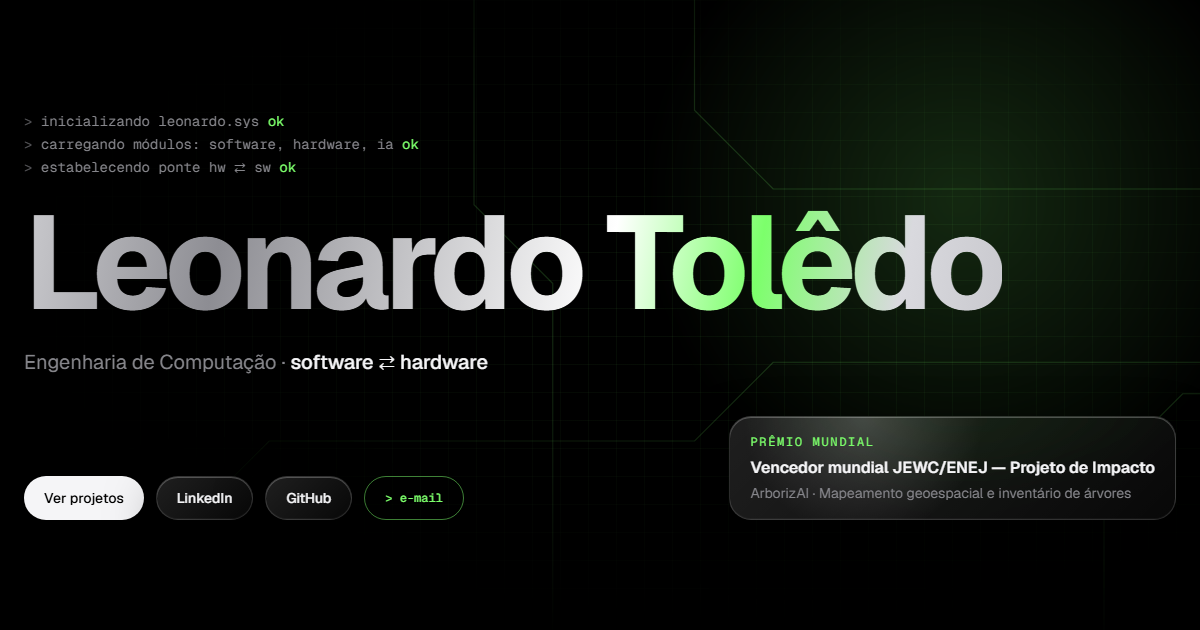
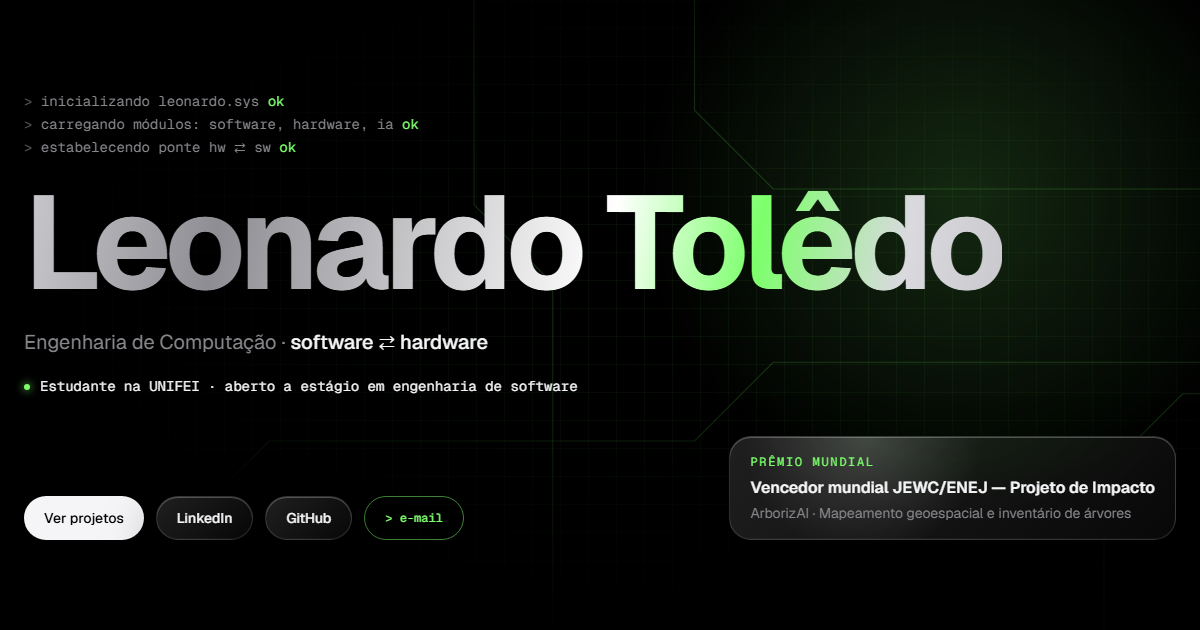
chore: auditoria de qualidade v1 (v0.4.0)
- varredura do build publicado: sem telefone, TODO de conteúdo, source maps, .env ou serve.json
- Lighthouse mobile PT/EN: Perf 96, A11y 100, Best Practices 100, SEO 100
- troca de idioma pela nav não apaga mais o marcador de JS (botão de copiar e-mail some)
- status "estudante na UNIFEI · aberto a estágio" na primeira dobra e na og.png
- tablet: sem rolagem lateral e projetos em 2 colunas; teste de larguras 320–1280
- WCAG 2.5.3 e 3.1.2 nos rótulos do logo e do seletor; theme-color, touch-action, .nojekyll
- título com UNIFEI; ESLint ignora as saídas locais de revisão

diff --git a/tests/e2e/out-scan.spec.ts b/tests/e2e/out-scan.spec.ts
@@ -1,0 +1,50 @@
+import { readdirSync, readFileSync } from "node:fs";
+import { basename, extname, join, relative } from "node:path";
+import { expect, test } from "@playwright/test";
+import { extractText, getDocumentProxy } from "unpdf";
+import { findPhones } from "../../src/lib/privacy";
+
+// Varre o que vai para o GitHub Pages: out/ é gerado pelo webServer do Playwright antes dos testes.
+const OUT = "out";
+const TEXT = new Set([".html", ".js", ".txt", ".xml", ".json", ".css", ".svg", ".webmanifest"]);
+
+function walk(dir: string): string[] {
+  return readdirSync(dir, { withFileTypes: true }).flatMap((e) => (e.isDirectory() ? walk(join(dir, e.name)) : [join(dir, e.name)]));
+}
+
+async function textOf(file: string): Promise<string | undefined> {
+  const ext = extname(file).toLowerCase();
+  if (TEXT.has(ext)) return readFileSync(file, "utf8");
+  if (ext === ".pdf") {
+    const doc = await getDocumentProxy(new Uint8Array(readFileSync(file)));
+    return (await extractText(doc, { mergePages: true })).text;
+  }
+  return undefined;
+}
+
+// Uma varredura basta: o resultado não depende do tamanho da tela.
+test.beforeEach(({ isMobile }) => test.skip(isMobile, "varredura do build roda uma vez"));
+
+test("build publicado: sem telefone e sem marcador de conteúdo pendente", async () => {
+  const files = walk(OUT);
+  const problems: string[] = [];
+  let scanned = 0;
+  for (const file of files) {
+    const text = await textOf(file);
+    if (text === undefined) continue;
+    scanned++;
+    const rel = relative(OUT, file);
+    for (const phone of findPhones(text)) problems.push(`${rel}: telefone "${phone}"`);
+    if (text.includes("TODO(conteúdo)")) problems.push(`${rel}: TODO(conteúdo)`);
+  }
+  // Garante que a varredura não passa "no vazio".
+  expect(scanned).toBeGreaterThan(10);
+  expect(problems).toEqual([]);
+});
+
+test("build publicado: sem source maps, .env nem configuração do servidor", () => {
+  const forbidden = walk(OUT)
+    .map((f) => relative(OUT, f))
+    .filter((f) => f.endsWith(".map") || basename(f).startsWith(".env") || basename(f) === "serve.json");
+  expect(forbidden).toEqual([]);
+});

diff --git a/src/app/[locale]/layout.tsx b/src/app/[locale]/layout.tsx
@@ -1,16 +1,19 @@
-import type { Metadata } from "next";
+import type { Metadata, Viewport } from "next";
 import { Geist, Geist_Mono } from "next/font/google";
 import { notFound } from "next/navigation";
-import { htmlLang, isLocale, locales } from "@/i18n/config";
+import { JsFlag } from "@/components/layout/JsFlag";
 import { profile } from "@/content/profile";
+import { htmlLang, isLocale, locales } from "@/i18n/config";
 import { getDictionary } from "@/i18n/get-dictionary";
-import { SITE_URL } from "@/lib/site";
+import { SITE_URL, THEME_COLOR } from "@/lib/site";
 import "@/styles/globals.css";
 
 const geistSans = Geist({ variable: "--font-geist-sans", subsets: ["latin"] });
 const geistMono = Geist_Mono({ variable: "--font-geist-mono", subsets: ["latin"] });
 
 export const dynamicParams = false;
+
+export const viewport: Viewport = { themeColor: THEME_COLOR, colorScheme: "dark" };
 
 export function generateStaticParams() {
   return locales.map((locale) => ({ locale }));
@@ -53,7 +56,10 @@ export default async function LocaleLayout({ children, params }: LayoutProps<"/[
         {/* Marca que há JavaScript antes de pintar: efeitos que escondem texto só agem com JS (sem JS, tudo visível). */}
         <script dangerouslySetInnerHTML={{ __html: "document.documentElement.dataset.js=''" }} />
       </head>
-      <body>{children}</body>
+      <body>
+        <JsFlag locale={locale} />
+        {children}
+      </body>
     </html>
   );
 }

diff --git a/tests/e2e/seo.spec.ts b/tests/e2e/seo.spec.ts
@@ -1,10 +1,9 @@
 import { expect, test } from "@playwright/test";
-
-const SITE = "https://leonardo-toledo-alves-costa.github.io";
+import { SITE_URL as SITE } from "../../src/lib/site";
 
 for (const [locale, title, desc] of [
-  ["pt", /Leonardo Tolêdo — Engenharia de Computação/, /Portfólio de Leonardo Tolêdo/],
-  ["en", /Leonardo Tolêdo — Computer Engineering/, /Portfolio of Leonardo Tolêdo/],
+  ["pt", /Leonardo Tolêdo — Engenharia de Computação \(UNIFEI\)/, /Portfólio de Leonardo Tolêdo/],
+  ["en", /Leonardo Tolêdo — Computer Engineering \(UNIFEI\)/, /Portfolio of Leonardo Tolêdo/],
 ] as const) {
   test(`title e description em /${locale}/`, async ({ page }) => {
     await page.goto(`/${locale}/`);
@@ -92,4 +91,12 @@ test("página raiz (redirecionamento) não é indexada", async ({ request }) => 
   // Lê o HTML servido (o navegador redirecionaria antes de dar para inspecionar o DOM).
   const html = await (await request.get("/")).text();
   expect(html).toMatch(/<meta name="robots" content="noindex/);
+});
+
+test("theme-color preto e color-scheme escuro (barra do navegador no celular)", async ({ page }) => {
+  for (const path of ["/pt/", "/nao-existe/"]) {
+    await page.goto(path);
+    await expect(page.locator('meta[name="theme-color"]')).toHaveAttribute("content", "#000000");
+    await expect(page.locator('meta[name="color-scheme"]')).toHaveAttribute("content", "dark");
+  }
 });

diff --git a/src/components/sections/Projects.tsx b/src/components/sections/Projects.tsx
@@ -5,20 +5,21 @@ import { ProjectCard } from "./projects/ProjectCard";
 import { Section } from "./Section";
 import type { SectionProps } from "./types";
 
-const COLS = 3;
+// 2 colunas no tablet e 3 no desktop: as células fecham em múltiplos de 6 para as duas grades ficarem completas.
+const GRID_CELLS = 6;
 
 /** Projetos como módulos da placa: o premiado em destaque (2 colunas) e "slots livres" fechando a grade. */
 export function Projects({ locale, dict }: SectionProps) {
   const t = dict.projects;
   const featuredId = projects.find((p) => p.award)?.id;
-  const items = projectSlots(projects, slotsToFillGrid(projects.length, COLS, featuredId ? 1 : 0));
+  const items = projectSlots(projects, slotsToFillGrid(projects.length, GRID_CELLS, featuredId ? 1 : 0));
 
   return (
     <Section id="projects" index="05" label={dict.nav.projects} title={dict.sections.projects}>
       <p className="mt-6 max-w-[60ch] text-lg text-text-2">{t.intro}</p>
       {/* Um Reveal para a grade inteira: cards não são sequência. */}
       <Reveal className="mt-12">
-        <ul className="grid gap-4 md:grid-flow-dense md:grid-cols-3">
+        <ul className="grid gap-4 md:grid-flow-dense md:grid-cols-2 lg:grid-cols-3">
           {items.map((project, i) =>
             project ? (
               <li key={project.id} className={project.id === featuredId ? "md:col-span-2" : undefined}>

diff --git a/tests/e2e/smoke.spec.ts b/tests/e2e/smoke.spec.ts
@@ -194,3 +194,23 @@ test("títulos das seções não repetem o rótulo de serigrafia", async ({ page
     expect(title, id).not.toBe(label);
   }
 });
+
+test("nome acessível do logo e da troca de idioma contém o texto visível (WCAG 2.5.3)", async ({ page }) => {
+  await page.goto("/pt/");
+  const nav = page.getByTestId("site-nav");
+  for (const el of [nav.locator('a[href="#hero"]'), page.getByTestId("locale-switch").first()]) {
+    const { visible, label } = await el.evaluate((e) => ({ visible: (e.textContent ?? "").replace(/[^\p{L}\p{N}]/gu, ""), label: e.getAttribute("aria-label") ?? "" }));
+    expect(visible.length).toBeGreaterThan(0);
+    expect(label.replace(/[^\p{L}\p{N}]/gu, "")).toContain(visible);
+  }
+});
+
+test("sem rolagem lateral em larguras intermediárias (tablet e notebook pequeno)", async ({ page, isMobile }) => {
+  test.skip(isMobile, "percorre as larguras num só projeto");
+  for (const width of [320, 640, 768, 1024, 1280]) {
+    await page.setViewportSize({ width, height: 900 });
+    await page.goto("/pt/");
+    const overflow = await page.evaluate(() => document.documentElement.scrollWidth - document.documentElement.clientWidth);
+    expect(overflow, `largura ${width}`).toBeLessThanOrEqual(0);
+  }
+});

diff --git a/tests/e2e/locale.spec.ts b/tests/e2e/locale.spec.ts
@@ -43,3 +43,20 @@ test("rotas com barra final respondem 200 sem redirecionar", async ({ request })
     expect(res.status(), path).toBe(200);
   }
 });
+
+test("trocar idioma pela nav mantém o marcador de JS (botão de copiar continua visível)", async ({ page }) => {
+  await page.goto("/pt/#contact");
+  await page.getByTestId("locale-switch").first().click();
+  await expect(page).toHaveURL(/\/en\//);
+  await expect(page.getByTestId("copy-email")).toBeVisible();
+  await page.goBack();
+  await expect(page).toHaveURL(/\/pt\//);
+  await expect(page.getByTestId("copy-email")).toBeVisible();
+});
+
+test("rótulo da troca de idioma está no idioma do link (lang) — WCAG 3.1.2", async ({ page }) => {
+  await page.goto("/pt/");
+  await expect(page.getByTestId("locale-switch").first()).toHaveAttribute("aria-label", "EN, View in English");
+  await page.goto("/en/");
+  await expect(page.getByTestId("locale-switch").first()).toHaveAttribute("aria-label", "PT, Ver em português");
+});

diff --git a/src/components/sections/Hero.tsx b/src/components/sections/Hero.tsx
@@ -89,6 +89,13 @@ export function Hero({ locale, dict }: SectionProps) {
           <span className="whitespace-nowrap font-medium text-text">{headline.focus}</span>
         </p>
 
+        {/* Nível e o que busca, já na primeira dobra. O LED aceso = disponível.
+            Sem borda de pílula: não é botão (a pílula com borda verde é o "> e-mail"). */}
+        <p data-status="" className="mt-5 flex items-baseline gap-2.5 font-mono text-xs text-text sm:text-sm">
+          <span aria-hidden className="size-1.5 shrink-0 translate-y-[-1px] rounded-full bg-signal shadow-[0_0_8px_var(--color-signal)]" />
+          {profile.status[locale]}
+        </p>
+
         <div className="mt-10 flex flex-col gap-8 lg:flex-row lg:items-end lg:justify-between">
           <div className="flex flex-wrap items-center gap-3">{heroCtas({ cvHref: profile.cv?.[locale] }).map(cta)}</div>
 

diff --git a/src/i18n/dictionaries/pt.ts b/src/i18n/dictionaries/pt.ts
@@ -1,7 +1,7 @@
 /** Textos de interface em português — o formato deste objeto é o contrato que o inglês precisa seguir. */
 export const pt = {
   meta: {
-    title: "Leonardo Tolêdo — Engenharia de Computação · software ⇄ hardware",
+    title: "Leonardo Tolêdo — Engenharia de Computação (UNIFEI) · software e hardware",
     description:
       "Portfólio de Leonardo Tolêdo, estudante de Engenharia de Computação na UNIFEI: projetos, tecnologias e trajetória entre software e hardware.",
   },
@@ -38,7 +38,8 @@ export const pt = {
   },
   common: {
     skipToContent: "Pular para o conteúdo",
-    switchLanguage: "Ver em inglês",
+    // No idioma de destino (o link tem lang="en"): quem não lê português reconhece.
+    switchLanguage: "View in English",
   },
   hero: {
     boot1: "inicializando leonardo.sys",

diff --git a/src/components/sections/Section.tsx b/src/components/sections/Section.tsx
@@ -17,11 +17,13 @@ type SectionProps = {
 
 /** Casca padrão das seções: âncora, rótulo de serigrafia e título h2 ligado por aria-labelledby. */
 export function Section({ id, index, label, title, tone = "base", className, children }: SectionProps) {
+  // overflow-x-clip: brilhos decorativos que passam da borda não criam rolagem lateral (sem cortar na vertical).
   return (
     <section
       id={id}
       aria-labelledby={`${id}-title`}
-      className={cn("scroll-mt-24 border-t border-line py-16 sm:py-24 lg:py-32", tone === "raised" && "bg-surface-2", className)}
+      className={cn(
+        "scroll-mt-24 overflow-x-clip border-t border-line py-16 sm:py-24 lg:py-32", tone === "raised" && "bg-surface-2", className)}
     >
       <Container>
         <SectionLabel index={index}>{label}</SectionLabel>

diff --git a/src/app/global-not-found.tsx b/src/app/global-not-found.tsx
@@ -1,12 +1,15 @@
-import type { Metadata } from "next";
+import type { Metadata, Viewport } from "next";
 import { Geist, Geist_Mono } from "next/font/google";
+import { Button } from "@/components/ui/Button";
 import { en } from "@/i18n/dictionaries/en";
 import { pt } from "@/i18n/dictionaries/pt";
-import { Button } from "@/components/ui/Button";
+import { THEME_COLOR } from "@/lib/site";
 import "@/styles/globals.css";
 
 const geistSans = Geist({ variable: "--font-geist-sans", subsets: ["latin"] });
 const geistMono = Geist_Mono({ variable: "--font-geist-mono", subsets: ["latin"] });
+
+export const viewport: Viewport = { themeColor: THEME_COLOR, colorScheme: "dark" };
 
 // O Next já injeta <meta name="robots" content="noindex"> na 404.
 export const metadata: Metadata = {

diff --git a/tests/e2e/hero.spec.ts b/tests/e2e/hero.spec.ts
@@ -63,3 +63,13 @@ for (const [locale, boot, headline, cta] of [
     await expect(page.locator('#hero a[href="#projects"]')).toHaveText(cta);
   });
 }
+
+test("hero diz o status na primeira dobra: UNIFEI e estágio (PT e EN)", async ({ page }) => {
+  for (const [locale, re] of [["pt", /UNIFEI.*estágio/], ["en", /UNIFEI.*internship/]] as const) {
+    await page.goto(`/${locale}/`);
+    const status = page.locator("#hero [data-status]");
+    await expect(status).toHaveText(re);
+    const box = (await status.boundingBox())!;
+    expect(box.y + box.height).toBeLessThanOrEqual(page.viewportSize()!.height);
+  }
+});

diff --git a/tests/e2e/projects.spec.ts b/tests/e2e/projects.spec.ts
@@ -97,3 +97,11 @@ test("slot livre com borda tracejada legível", async ({ page }) => {
   // Mais visível que a linha padrão (branco 8%).
   expect(color).not.toMatch(/0\.08\)/);
 });
+
+test("tablet (768px): cards de projeto com largura confortável (2 colunas)", async ({ page, isMobile }) => {
+  test.skip(isMobile, "largura definida no teste");
+  await page.setViewportSize({ width: 768, height: 1024 });
+  await page.goto("/pt/#projects");
+  const w = (await page.locator('#projects [data-project-card="dip-mobile"]').boundingBox())!.width;
+  expect(w).toBeGreaterThanOrEqual(300);
+});
